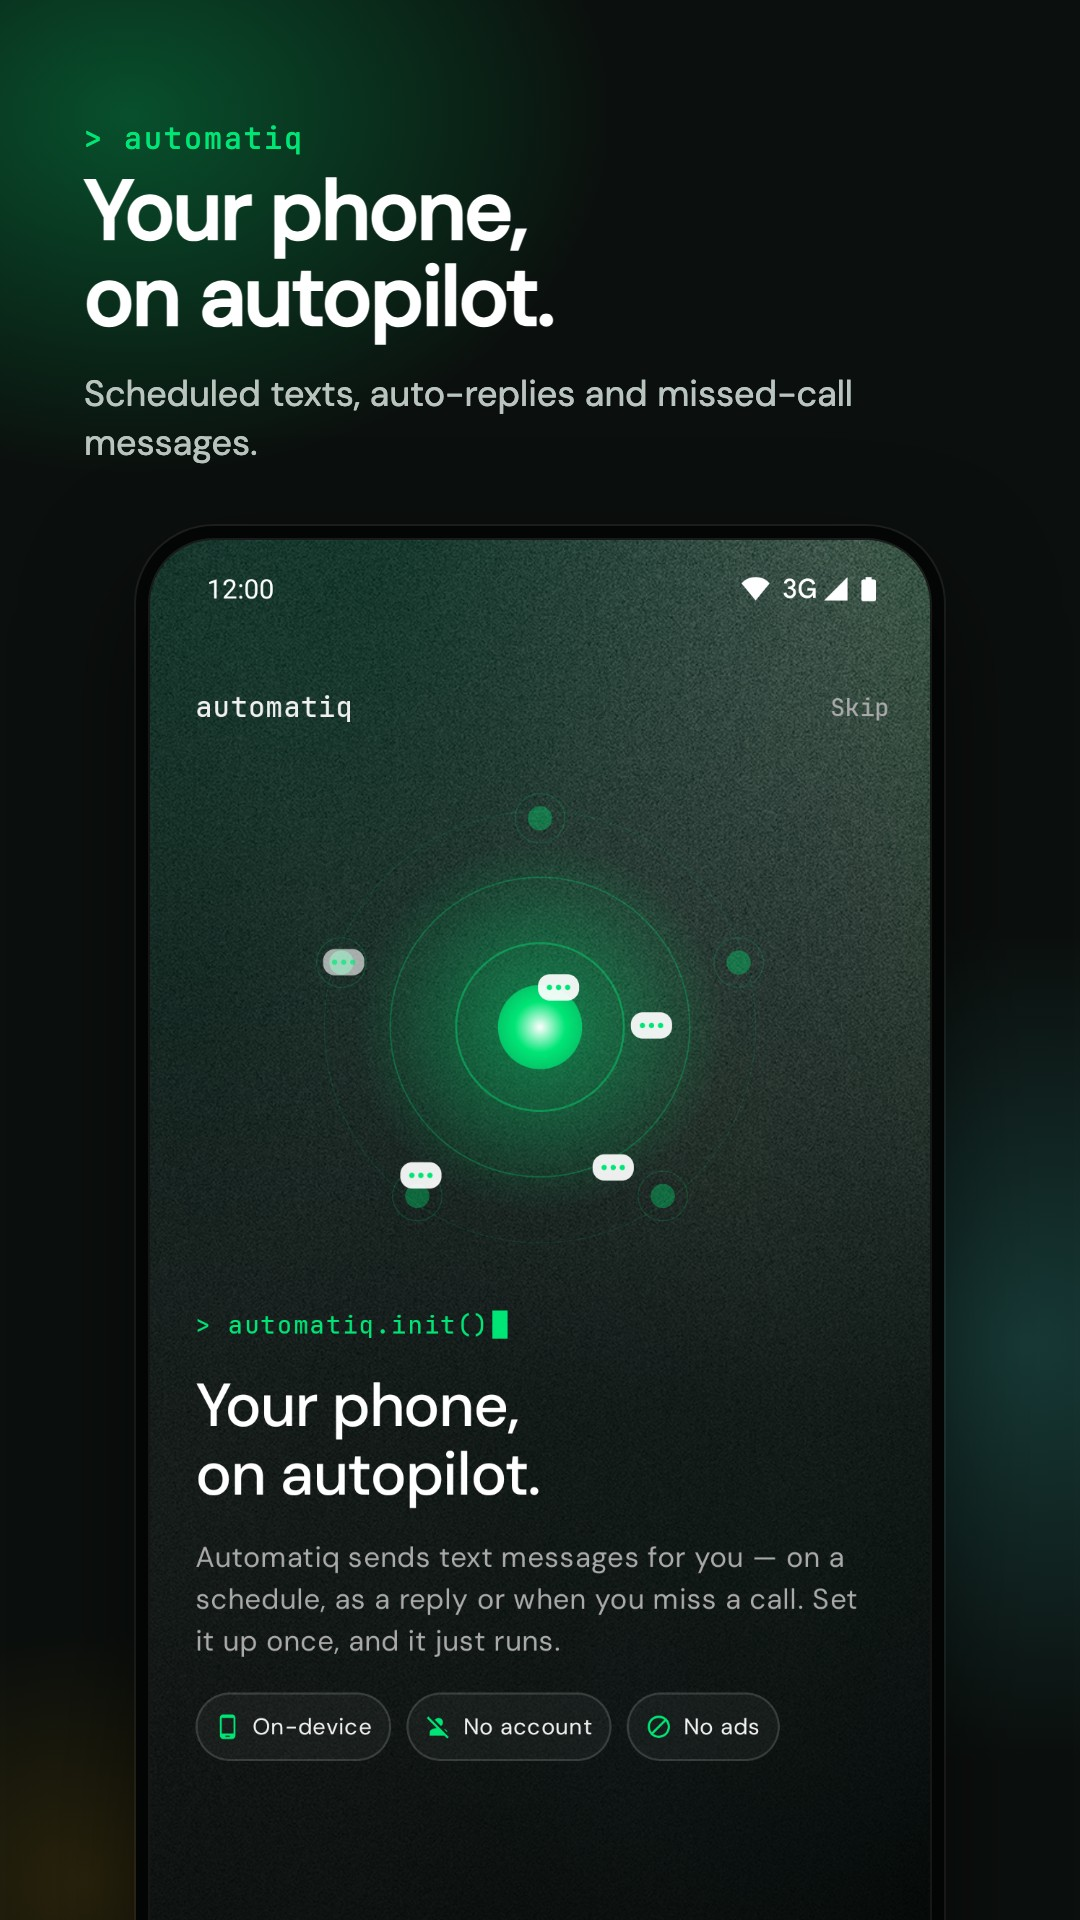
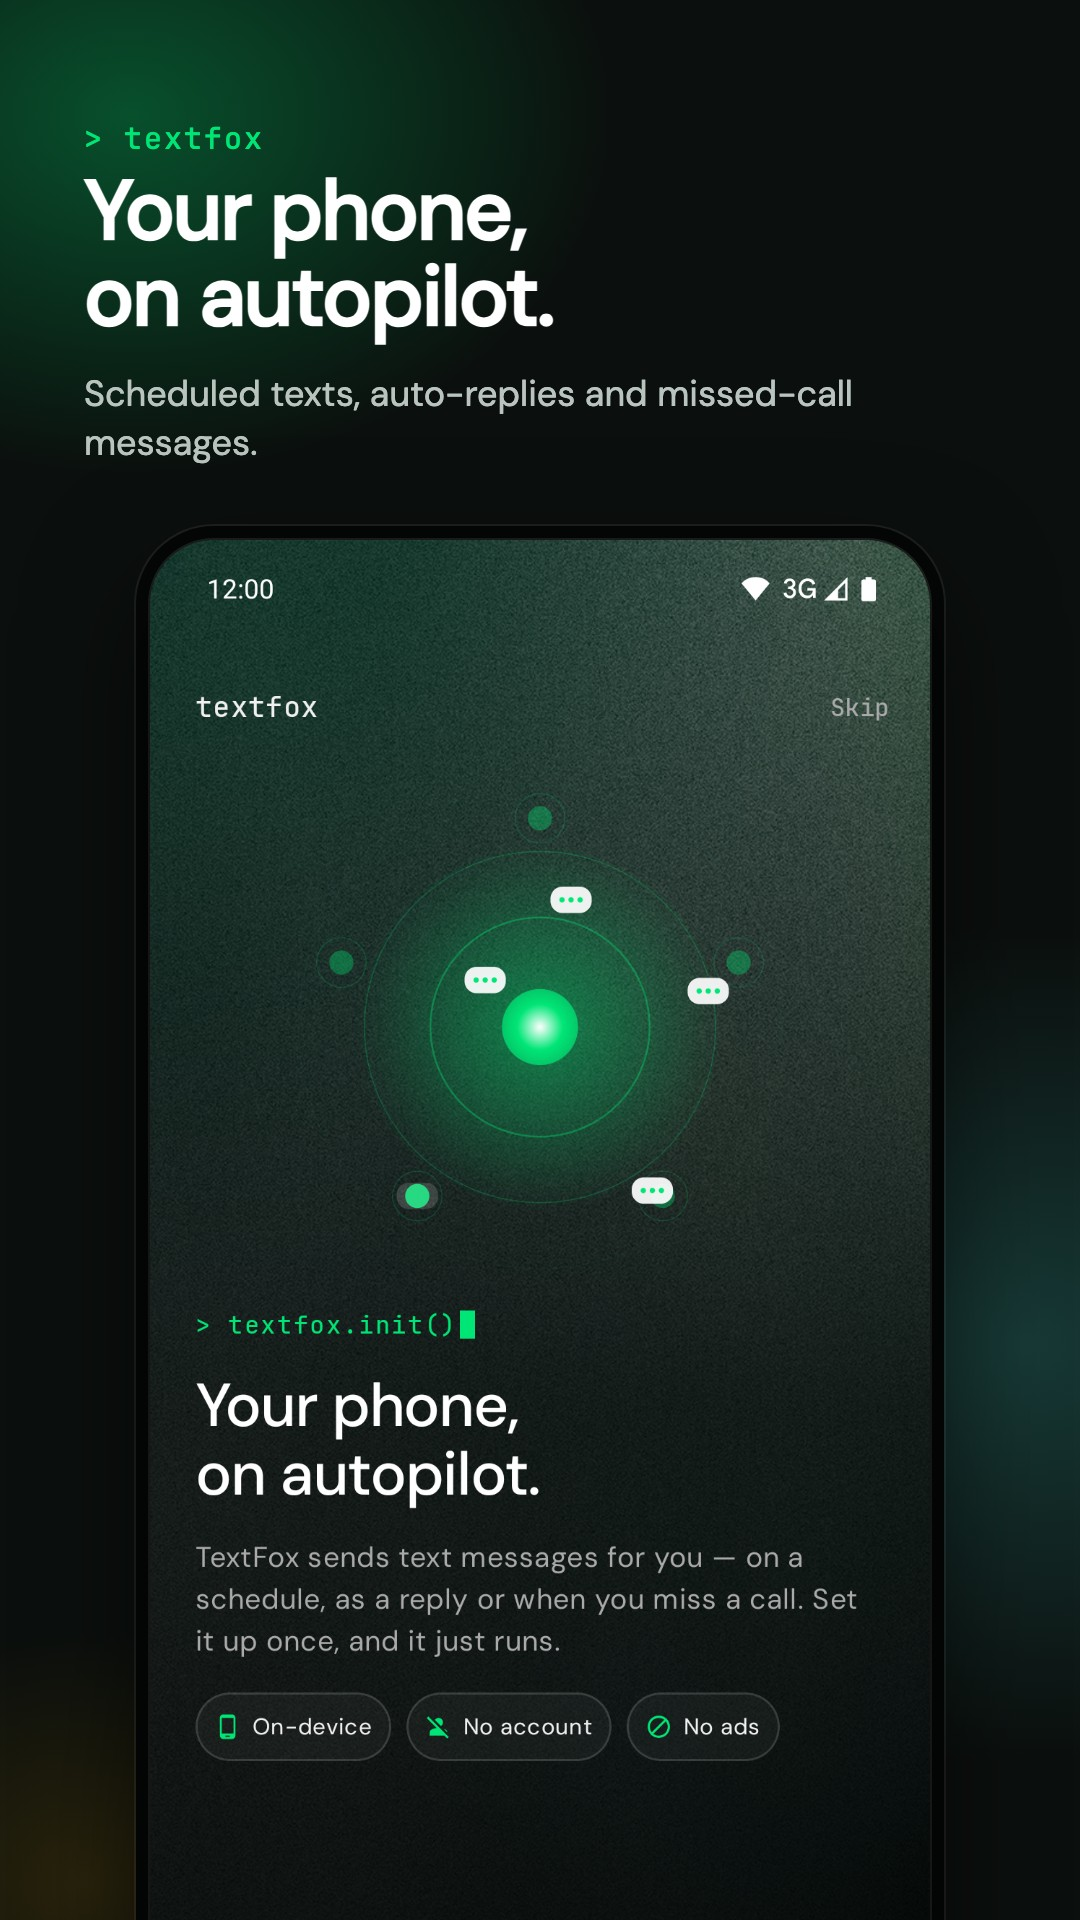
Rebrand: Automatiq → TextFox (display names only)
Everything the user sees now says TextFox: app label, the textfox
wordmark and "> textfox.init()", onboarding, setup, AI, log, widget and
notification texts, the suggested backup file name, docs, the privacy
policy, the feature graphic and store screenshots 01-02.

Unchanged on purpose: applicationId app.kodekid.automatiq, the
com.vibeactions code, Room/prefs/WorkManager/alarm/channel IDs and
signing, so 1.7 updates in place with all macros and widgets kept.

Version 1.8 (versionCode 9).

diff --git a/app/src/main/java/com/vibeactions/ui/onboarding/OnboardingScreen.kt b/app/src/main/java/com/vibeactions/ui/onboarding/OnboardingScreen.kt
@@ -244,7 +244,7 @@ private fun TopRow(page: Int, onSkip: () -> Unit) {
         verticalAlignment = Alignment.CenterVertically
     ) {
         Text(
-            "automatiq",
+            "textfox",
             fontFamily = JetBrainsMono, fontWeight = FontWeight.Medium,
             color = OnSurface, fontSize = 15.sp, modifier = Modifier.weight(1f)
         )
@@ -311,10 +311,10 @@ private fun Typewriter(full: String, active: Boolean, color: Color) {
 
 @Composable
 private fun WelcomePage(active: Boolean) {
-    Typewriter("> automatiq.init()", active, Primary)
+    Typewriter("> textfox.init()", active, Primary)
     Title("Your phone,\non autopilot.")
     Body(
-        "Automatiq sends text messages for you — on a schedule, as a reply" +
+        "TextFox sends text messages for you — on a schedule, as a reply" +
             (if (BuildConfig.LOCATION_TRIGGER) ", when you miss a call or when you arrive somewhere. "
             else " or when you miss a call. ") +
             "Set it up once, and it just runs."
@@ -495,7 +495,7 @@ private fun AiPage(
     InfoCard(
         "Model: $model",
         "Fast and reliable, and it's the default. If it's busy or its free daily quota runs out, " +
-            "Automatiq automatically switches to another Gemini model. Your key stays on this phone."
+            "TextFox automatically switches to another Gemini model. Your key stays on this phone."
     )
     Spacer(Modifier.height(8.dp))
     Text(

diff --git a/app/src/main/java/com/vibeactions/ui/setup/Setup.kt b/app/src/main/java/com/vibeactions/ui/setup/Setup.kt
@@ -140,9 +140,9 @@ fun setupSteps(context: Context): List<SetupStep> = buildList {
             SetupStep(
                 "xiaomi_autostart", Icons.Default.RocketLaunch, "Xiaomi: Autostart",
                 "Xiaomi stops apps that aren't allowed to start by themselves.",
-                "Find Automatiq and switch it on, then go back",
+                "Find TextFox and switch it on, then go back",
                 check = { xiaomiAutostartEnabled(it) },
-                confirmQuestion = "Did you switch Automatiq on under Autostart?",
+                confirmQuestion = "Did you switch TextFox on under Autostart?",
                 intent = {
                     Intent().setComponent(
                         ComponentName(
@@ -158,7 +158,7 @@ fun setupSteps(context: Context): List<SetupStep> = buildList {
                 "xiaomi_perms", Icons.Default.Security, "Xiaomi: Extra permissions",
                 "Xiaomi has its own SMS gate on top of Android's.",
                 "Under \"Other permissions\": allow everything about SMS, then go back",
-                confirmQuestion = "Did you allow the SMS permissions for Automatiq?",
+                confirmQuestion = "Did you allow the SMS permissions for TextFox?",
                 intent = {
                     Intent("miui.intent.action.APP_PERM_EDITOR")
                         .setClassName(

diff --git a/app/src/main/java/com/vibeactions/ui/settings/SettingsScreen.kt b/app/src/main/java/com/vibeactions/ui/settings/SettingsScreen.kt
@@ -284,7 +284,7 @@ fun SettingsScreen(
                     Button(
                         onClick = {
                             vm.exportBackup(includeKeyInBackup) { json ->
-                                pendingExport = json; createDoc.launch("automatiq-backup.json")
+                                pendingExport = json; createDoc.launch("textfox-backup.json")
                             }
                         },
                         modifier = Modifier.weight(1f)
@@ -339,7 +339,7 @@ fun SettingsScreen(
                 horizontalArrangement = Arrangement.Center,
                 verticalAlignment = Alignment.CenterVertically
             ) {
-                Text("Automatiq ${BuildConfig.VERSION_NAME} · ", color = OnSurfaceVariant, fontSize = 13.sp, textAlign = TextAlign.Center)
+                Text("TextFox ${BuildConfig.VERSION_NAME} · ", color = OnSurfaceVariant, fontSize = 13.sp, textAlign = TextAlign.Center)
                 Text("kodekid.app", color = Primary, fontSize = 13.sp, textAlign = TextAlign.Center)
             }
         }

diff --git a/app/src/main/java/com/vibeactions/ui/common/AiDialogs.kt b/app/src/main/java/com/vibeactions/ui/common/AiDialogs.kt
@@ -40,7 +40,7 @@ fun AiConsentDialog(onAccept: () -> Unit, onDecline: () -> Unit) {
         text = {
             Column(Modifier.verticalScroll(rememberScrollState()), verticalArrangement = Arrangement.spacedBy(10.dp)) {
                 Text(
-                    "Automatiq's AI features use Google's Gemini API with your own API key. To write a " +
+                    "TextFox's AI features use Google's Gemini API with your own API key. To write a " +
                         "message, this text is sent to Google:"
                 )
                 Text("• AI auto-replies: the incoming SMS you're replying to\n" +

diff --git a/app/src/main/java/com/vibeactions/ui/editor/MacroEditorScreen.kt b/app/src/main/java/com/vibeactions/ui/editor/MacroEditorScreen.kt
@@ -1410,7 +1410,7 @@ private fun ActionSection(s: EditorState, vm: MacroEditorViewModel, accent: andr
                         runCatching {
                             ctx.startActivity(Intent(Settings.ACTION_NOTIFICATION_POLICY_ACCESS_SETTINGS))
                         }
-                        Toast.makeText(ctx, "Find Automatiq and allow it, then go back", Toast.LENGTH_LONG).show()
+                        Toast.makeText(ctx, "Find TextFox and allow it, then go back", Toast.LENGTH_LONG).show()
                     }
                 }
             }

diff --git a/app/src/main/java/com/vibeactions/ui/log/LogScreen.kt b/app/src/main/java/com/vibeactions/ui/log/LogScreen.kt
@@ -123,7 +123,7 @@ fun LogScreen(vm: LogViewModel = hiltViewModel()) {
                     )
                     Spacer(Modifier.height(6.dp))
                     Text(
-                        if (total == 0 && selectedMacroId == null) "Everything Automatiq sends will land here."
+                        if (total == 0 && selectedMacroId == null) "Everything TextFox sends will land here."
                         else "No entries match this filter.",
                         color = OnSurfaceVariant, fontSize = 13.sp
                     )

diff --git a/app/src/main/java/com/vibeactions/ui/common/ScreenHeader.kt b/app/src/main/java/com/vibeactions/ui/common/ScreenHeader.kt
@@ -11,7 +11,7 @@ import androidx.compose.ui.unit.sp
 import com.vibeactions.ui.theme.JetBrainsMono
 import com.vibeactions.ui.theme.OnSurface
 
-/** The mono, lower-case screen title that the macro list's "automatiq" wordmark set — so Log and
+/** The mono, lower-case screen title that the macro list's "textfox" wordmark set — so Log and
  *  Settings read as the same app. [trailing] holds the screen's own summary and actions. */
 @Composable
 fun ScreenHeader(title: String, trailing: (@Composable RowScope.() -> Unit)? = null) {

diff --git a/app/src/main/java/com/vibeactions/widget/MacroWidgetConfigActivity.kt b/app/src/main/java/com/vibeactions/widget/MacroWidgetConfigActivity.kt
@@ -115,7 +115,7 @@ private fun Header(empty: Boolean) {
         )
         Spacer(Modifier.height(12.dp))
         Text(
-            if (empty) "You have no macros yet. Create one in Automatiq, then add the widget again."
+            if (empty) "You have no macros yet. Create one in TextFox, then add the widget again."
             else "The button on your home screen runs this macro with one tap and shows its name.",
             fontFamily = DmSans, fontSize = 16.sp, lineHeight = 22.sp, color = Color(0xFFD8D8D8)
         )

diff --git a/app/src/main/java/com/vibeactions/scheduler/TriggerMonitorService.kt b/app/src/main/java/com/vibeactions/scheduler/TriggerMonitorService.kt
@@ -162,7 +162,7 @@ class TriggerMonitorService : android.app.Service() {
         }
         val notification: Notification = NotificationCompat.Builder(this, CHANNEL_ID)
             .setSmallIcon(android.R.drawable.stat_notify_sync)
-            .setContentTitle("Automatiq is watching for triggers")
+            .setContentTitle("TextFox is watching for triggers")
             .setContentText("Charging / Bluetooth / Wi-Fi macros")
             .setOngoing(true)
             .setPriority(NotificationCompat.PRIORITY_MIN)

diff --git a/app/src/main/java/com/vibeactions/ui/macrolist/MacroListScreen.kt b/app/src/main/java/com/vibeactions/ui/macrolist/MacroListScreen.kt
@@ -237,7 +237,7 @@ fun MacroListScreen(
                     PulseDot(alive = macros.any { it.enabled })
                     Spacer(Modifier.width(9.dp))
                     Text(
-                        "automatiq",
+                        "textfox",
                         fontFamily = JetBrainsMono,
                         fontWeight = FontWeight.Medium,
                         fontSize = 20.sp,

diff --git a/app/src/main/java/com/vibeactions/scheduler/AiVaryWorker.kt b/app/src/main/java/com/vibeactions/scheduler/AiVaryWorker.kt
@@ -132,7 +132,7 @@ class AiVaryWorker @AssistedInject constructor(
     }
 
     companion object {
-        private const val TAG = "AutomatiqAI"
+        private const val TAG = "TextFoxAI"
         const val KEY_MACRO_ID = "macro_id"
         const val KEY_EVENT_ID = "event_id"
         const val KEY_PREVIOUS = "previous"

diff --git a/app/src/main/java/com/vibeactions/scheduler/GeminiReplyWorker.kt b/app/src/main/java/com/vibeactions/scheduler/GeminiReplyWorker.kt
@@ -144,7 +144,7 @@ class GeminiReplyWorker @AssistedInject constructor(
     }
 
     companion object {
-        private const val TAG = "AutomatiqAI"
+        private const val TAG = "TextFoxAI"
         const val KEY_MACRO_ID = "macro_id"
         const val KEY_SENDER = "sender"
         const val KEY_BODY = "body"
